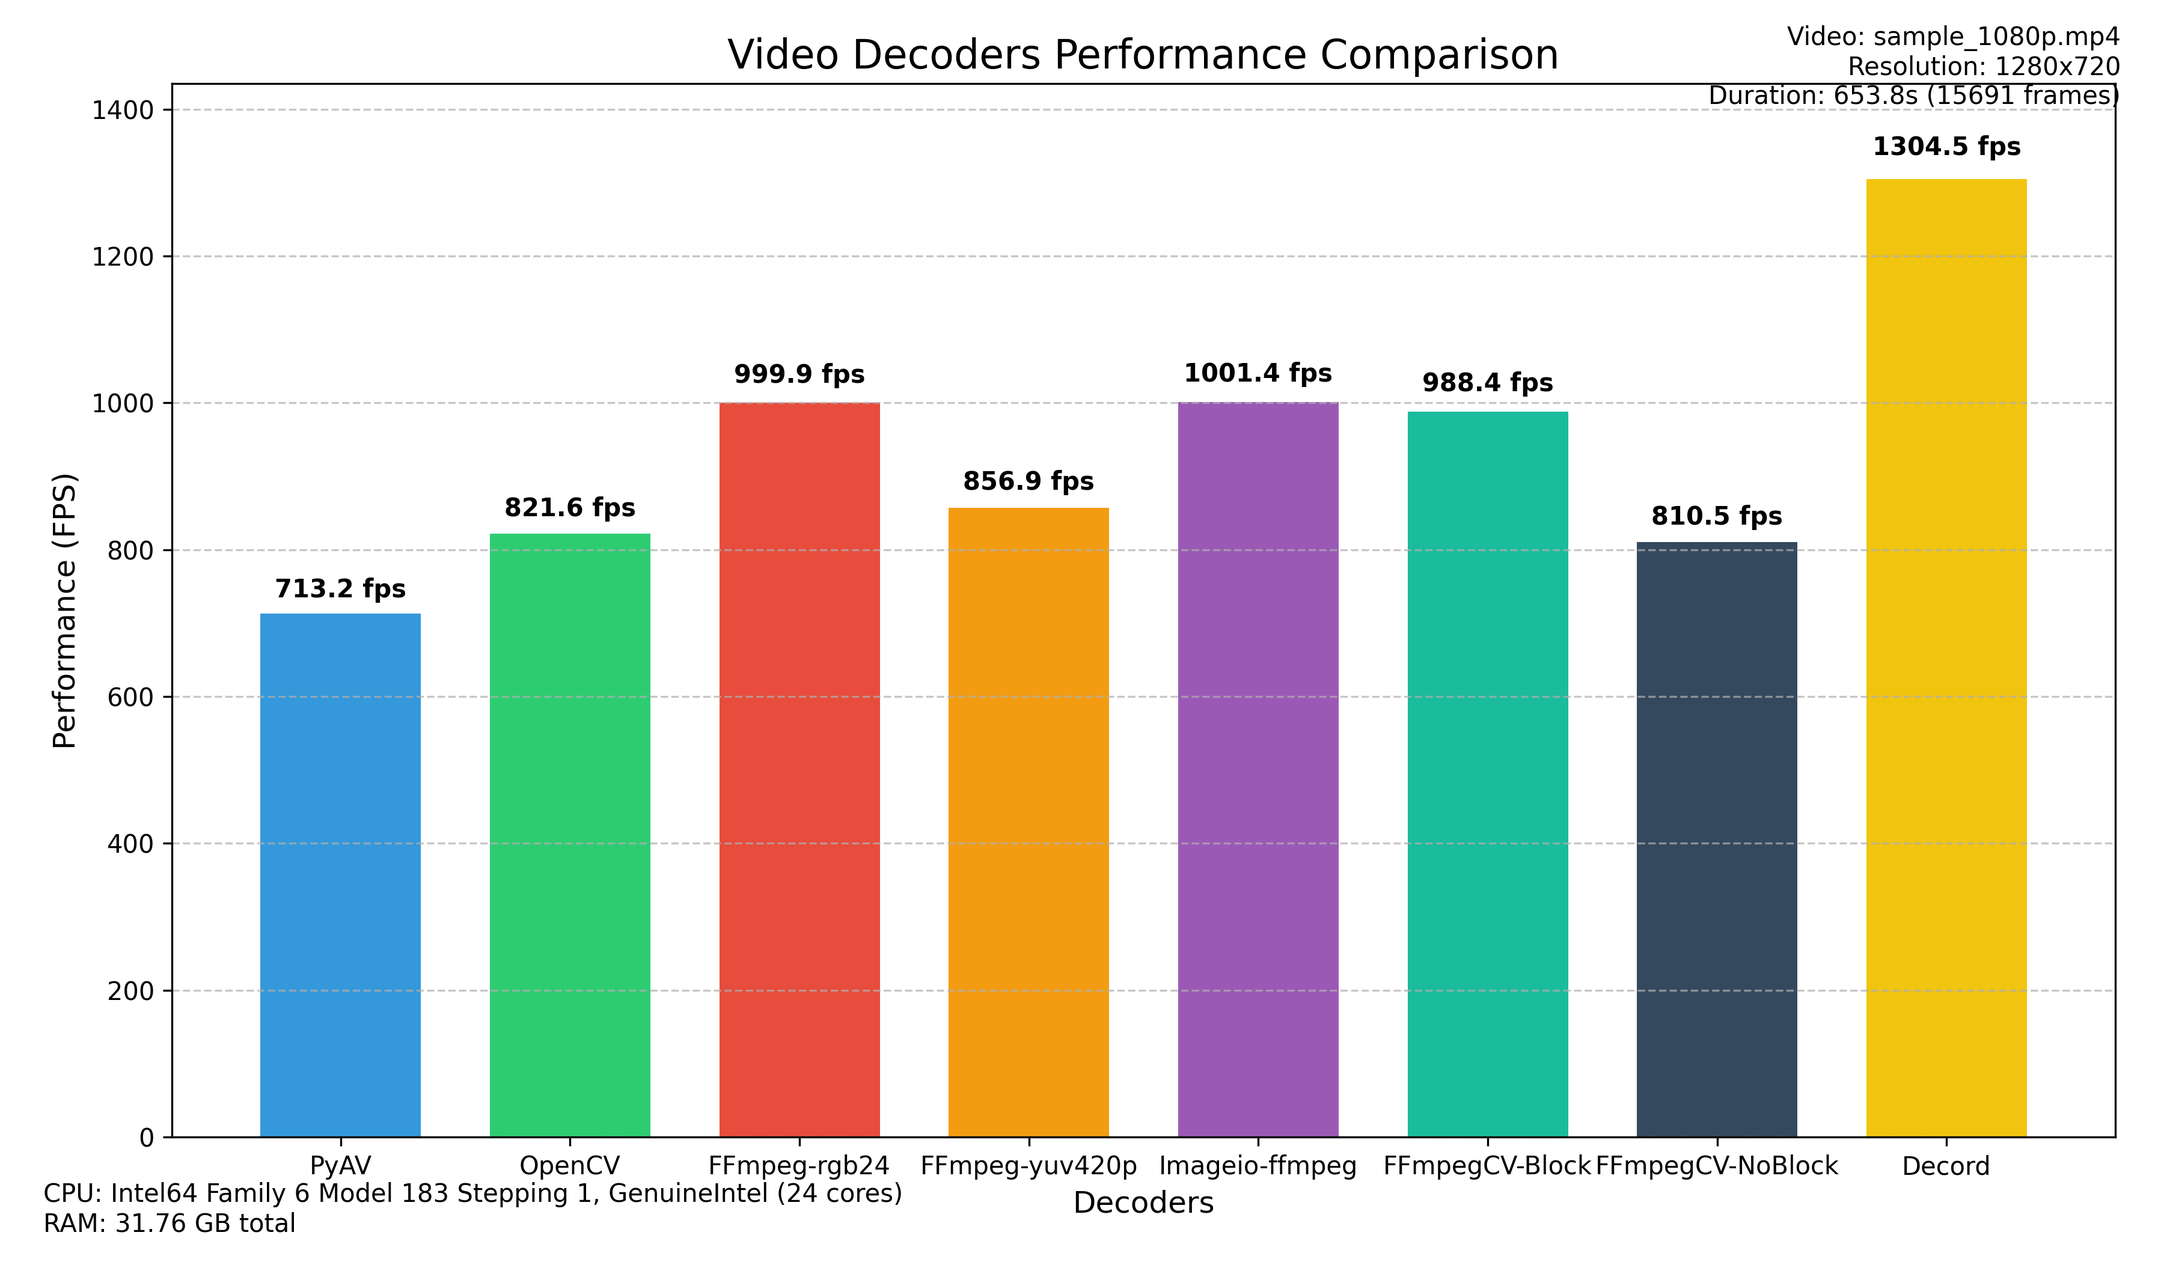
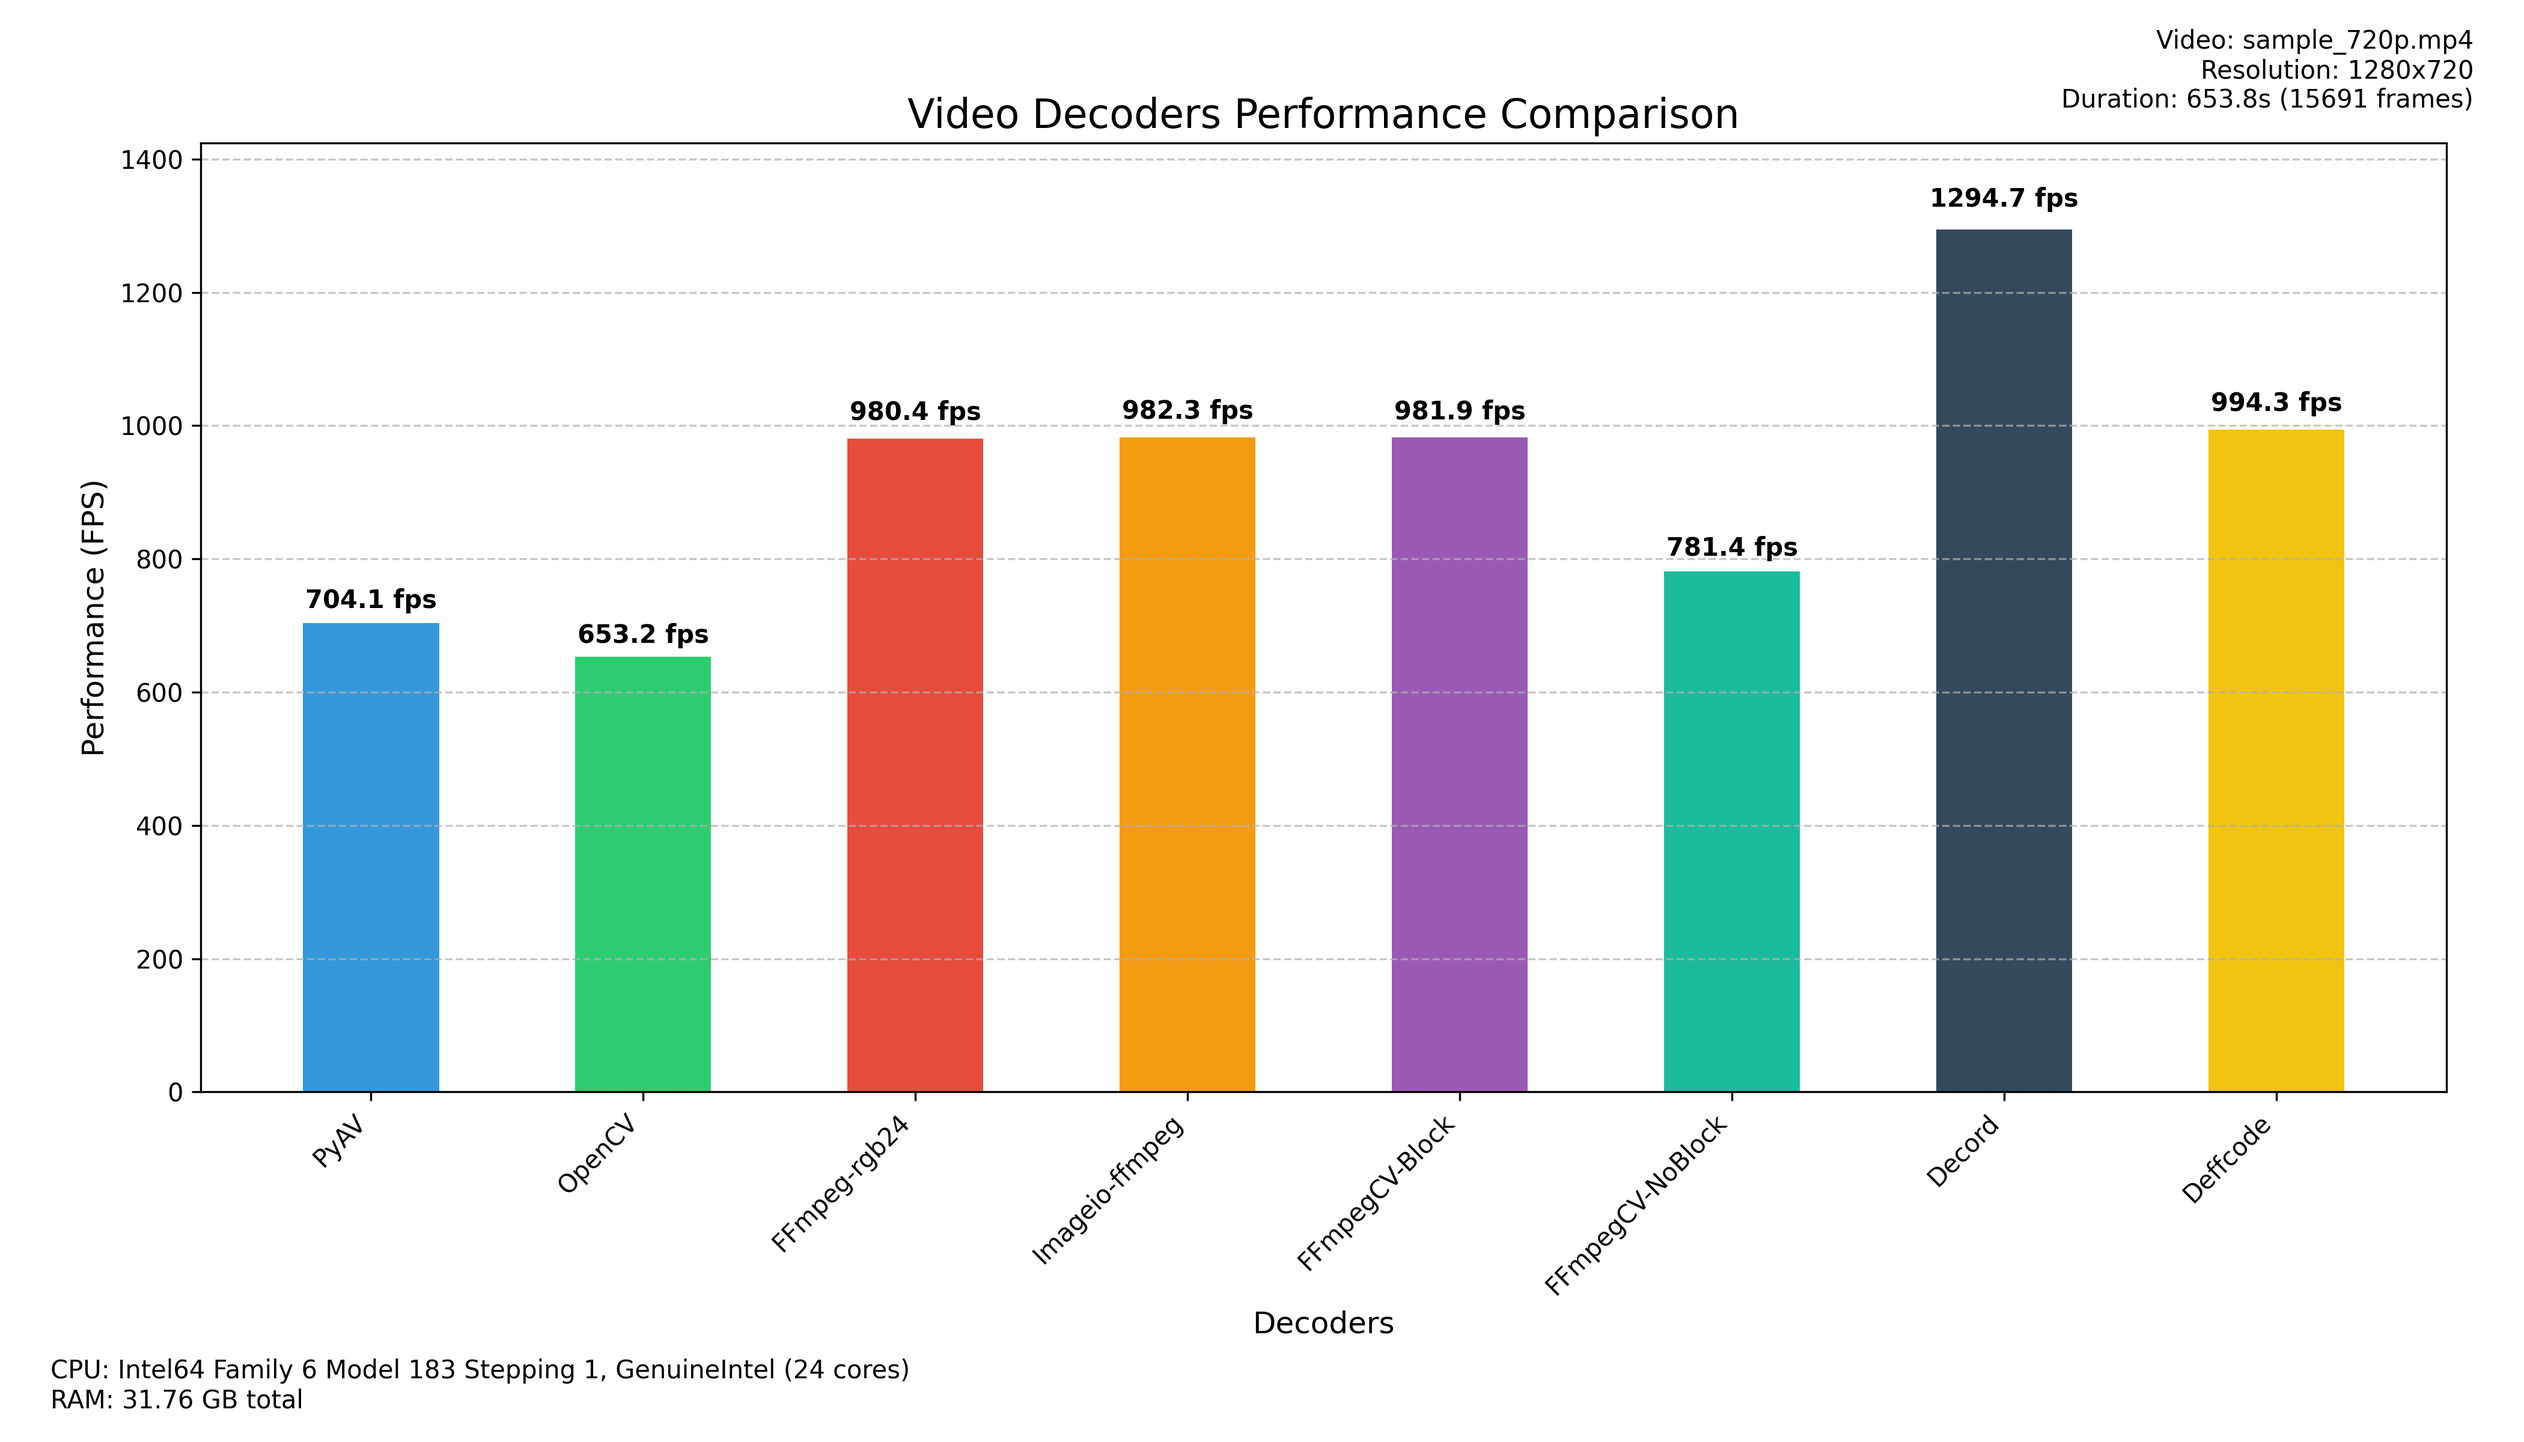
remove ffmpeg yuv420p

diff --git a/main.py b/main.py
@@ -11,13 +11,14 @@ import cv2
 import psutil
 import matplotlib.pyplot as plt
 
-from src.backends.ffmpeg import decodeWithFFMPEG_RGB24, decodeWithFFMPEG_YUV420
+from src.backends.ffmpeg import decodeWithFFMPEG_RGB24
 from src.backends.imageio import decodeWithImageioFFMPEG
 from src.backends.opencv import decodeWithOpenCV
 from src.backends.pyav import decodeWithPyAV
 from src.backends.torchaudio import decodeWithTorchaudio
 from src.backends.ffmpegcv import decodeWithFFMPEGCV_Block, decodeWithFFMPEGCV_NoBlock
 from src.backends.decord import decodeWithDecord
+from src.backends.deffcode import decodeWithDeffcode
 
 
 def downloadVideo(url: str, outputPath: str) -> str:
@@ -67,7 +68,7 @@ def runBenchmark(videoPath: str, coolingPeriod: int = 3) -> Dict[str, Any]:
         videoPath: Path to the video file to benchmark
         coolingPeriod: Time in seconds to wait between decoder tests
     """
-    print("\nGetting video information...")
+    print("Getting video information...")
     videoInfo = getVideoInfo(videoPath)
     systemInfo = getSystemInfo()
 
@@ -83,10 +84,6 @@ def runBenchmark(videoPath: str, coolingPeriod: int = 3) -> Dict[str, Any]:
 
     print("\nRunning FFMPEG RGB decoder...")
     decoders["FFmpeg-rgb24"] = decodeWithFFMPEG_RGB24(videoPath, videoInfo)
-    time.sleep(coolingPeriod)
-
-    print("\nRunning FFMPEG YUV decoder...")
-    decoders["FFmpeg-yuv420p"] = decodeWithFFMPEG_YUV420(videoPath, videoInfo)
     time.sleep(coolingPeriod)
 
     print("\nRunning imageio-ffmpeg decoder...")
@@ -106,6 +103,10 @@ def runBenchmark(videoPath: str, coolingPeriod: int = 3) -> Dict[str, Any]:
 
     print("\nRunning Decord decoder...")
     decoders["Decord"] = decodeWithDecord(videoPath)
+    time.sleep(coolingPeriod)
+
+    print("\nRunning Deffcode decoder...")
+    decoders["Deffcode"] = decodeWithDeffcode(videoPath)
     time.sleep(coolingPeriod)
 
     print("\nBenchmark completed.")
@@ -180,11 +181,11 @@ def createPerformanceDiagram(results: Dict[str, Any], outputPath: str) -> None:
             print("No valid decoder results to plot.")
             return
 
-        plt.figure(figsize=(12, 7))
+        plt.figure(figsize=(14, 8))
         bars = plt.bar(
             decoderNames,
             fpsValues,
-            width=0.7,
+            width=0.5,
             color=[
                 "#3498db",
                 "#2ecc71",
@@ -208,12 +209,15 @@ def createPerformanceDiagram(results: Dict[str, Any], outputPath: str) -> None:
                 ha="center",
                 va="bottom",
                 fontweight="bold",
+                fontsize=10,
             )
 
         plt.xlabel("Decoders", fontsize=12)
         plt.ylabel("Performance (FPS)", fontsize=12)
         plt.title("Video Decoders Performance Comparison", fontsize=16)
         plt.ylim(0, max(fpsValues) * 1.1)
+
+        plt.xticks(rotation=45, ha="right")
 
         if "systemInfo" in results and "error" not in results["systemInfo"]:
             systemInfo = results["systemInfo"]
@@ -236,7 +240,7 @@ def createPerformanceDiagram(results: Dict[str, Any], outputPath: str) -> None:
 
         plt.grid(axis="y", linestyle="--", alpha=0.7)
 
-        plt.tight_layout(rect=[0.01, 0.01, 0.99, 0.99])
+        plt.tight_layout(rect=[0.02, 0.05, 0.98, 0.95])
         plt.savefig(outputPath, dpi=300)
         print(f"Performance diagram saved to {outputPath}")
 

diff --git a/src/backends/deffcode.py b/src/backends/deffcode.py
@@ -1,0 +1,39 @@
+import time
+
+from deffcode import FFdecoder
+from typing import Dict, Any
+
+
+def decodeWithDeffcode(videoPath: str) -> Dict[str, Any]:
+    """Decode video using FFDecoder and return metrics."""
+    try:
+        print("Decoding with FFDecoder...")
+        startTime = time.time()
+
+        decoder = FFdecoder(videoPath, verbose=False).formulate()
+        frameCount = 0
+
+        for frame in decoder.generateFrame():
+            if frame is None:
+                break
+            frameCount += 1
+
+        decoder.terminate()
+        endTime = time.time()
+
+        elapsedTime = endTime - startTime
+        print(f"FFDecoder: Processed {frameCount} frames in {elapsedTime:.2f} seconds")
+
+        return {
+            "frameCount": frameCount,
+            "elapsedTime": elapsedTime,
+            "fps": frameCount / elapsedTime if elapsedTime > 0 else 0,
+        }
+    except Exception as e:
+        print(f"Error in FFDecoder: {str(e)}")
+        return {
+            "error": str(e),
+            "frameCount": 0,
+            "elapsedTime": 0,
+            "fps": 0,
+        }

diff --git a/README.md b/README.md
@@ -5,6 +5,8 @@
 
 A place where one can get guidance on which Python video decoder is best suited for their project based on performance benchmarks.
 
+All benchmarks standardize on `numpy` arrays in RGB24 format as the final output. Performance measurements include any necessary color space conversions (e.g., BGR→RGB for OpenCV) to ensure fair comparison across all libraries.
+
 ## Overview
 
 This project benchmarks the performance (Frames Per Second - FPS) of various Python libraries used for video decoding. The goal is to provide developers with data to make informed decisions when choosing a video decoding backend for their applications.
